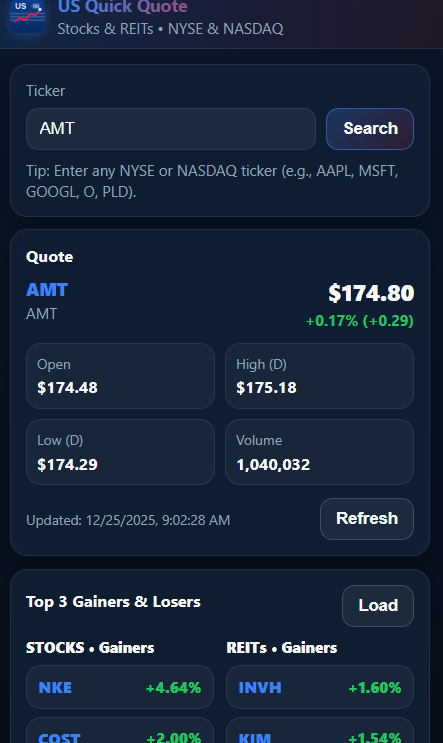
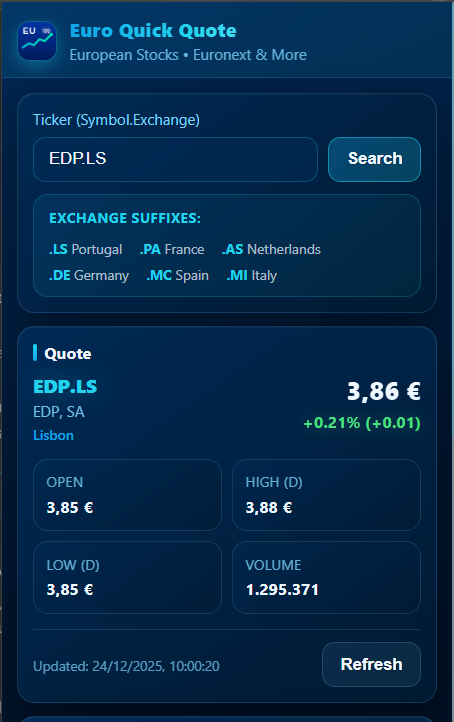
Improve color

diff --git a/popup.css b/popup.css
@@ -1,108 +1,171 @@
+/* Euro Quick Quote - European Theme */
 :root{
-  --bg:#0A1628;
-  --card:#0F1D32;
-  --muted:#94A3B8;
-  --text:#F8FAFC;
-  --line:rgba(255,255,255,.08);
-  --good:#22C55E;
-  --bad:#DC2626;
-  --neutral:#94A3B8;
-  --accent:#3B82F6;
-  --accent-red:#DC2626;
-  --accent-white:#F8FAFC;
+  /* Base colors - European Blue theme matching icon */
+  --bg:#001A33;
+  --card:#002244;
+  --muted:#7DD3FC;
+  --text:#F0F9FF;
+  --line:rgba(125,211,252,.15);
+  
+  /* Status colors */
+  --good:#4ADE80;
+  --bad:#F87171;
+  --neutral:#7DD3FC;
+  
+  /* Accent - Blue to Cyan gradient inspired by icon */
+  --accent:#22D3EE;
+  --accent-secondary:#0EA5E9;
+  --accent-glow:rgba(34,211,238,.3);
+  
+  /* EU Gold accent (optional highlights) */
+  --gold:#FFD700;
 }
 
 *{box-sizing:border-box}
 body{
   margin:0;
   width:360px;
-  background:linear-gradient(180deg, #0A1628 0%, #050B14 100%);
+  background:linear-gradient(160deg, #002855 0%, #001229 50%, #000A14 100%);
   color:var(--text);
   font: 13px/1.35 "Segoe UI", system-ui, -apple-system, Roboto, Arial, sans-serif;
 }
 
 .header{
-  padding:12px 12px 8px 12px;
+  padding:14px 12px 10px 12px;
   border-bottom:1px solid var(--line);
-  background: linear-gradient(90deg, rgba(59,130,246,0.15) 0%, rgba(220,38,38,0.1) 100%);
+  background: linear-gradient(135deg, rgba(14,165,233,0.12) 0%, rgba(34,211,238,0.08) 100%);
+  position:relative;
+}
+.header::before{
+  content:'';
+  position:absolute;
+  top:0;
+  left:0;
+  right:0;
+  height:2px;
+  background:linear-gradient(90deg, #0EA5E9 0%, #22D3EE 50%, #0EA5E9 100%);
 }
 
 .brand{display:flex; gap:10px; align-items:center;}
-.logo{width:28px; height:28px; border-radius:8px; box-shadow: 0 2px 8px rgba(59,130,246,0.3);}
-.brand-title{font-weight:700; font-size:14px; background: linear-gradient(90deg, var(--accent) 0%, var(--accent-red) 100%); -webkit-background-clip: text; -webkit-text-fill-color: transparent; background-clip: text;}
-.brand-subtitle{color:var(--muted); font-size:12px; margin-top:1px;}
+.logo{
+  width:32px; 
+  height:32px; 
+  border-radius:10px; 
+  box-shadow: 0 4px 12px var(--accent-glow);
+  border:1px solid rgba(34,211,238,.3);
+}
+.brand-title{
+  font-weight:800; 
+  font-size:15px; 
+  background: linear-gradient(90deg, #0EA5E9 0%, #22D3EE 50%, #67E8F9 100%); 
+  -webkit-background-clip: text; 
+  -webkit-text-fill-color: transparent; 
+  background-clip: text;
+  letter-spacing:0.3px;
+}
+.brand-subtitle{color:var(--muted); font-size:12px; margin-top:2px; opacity:0.8;}
 
 .main{padding:12px; display:flex; flex-direction:column; gap:10px;}
 .card{
-  background:rgba(15,29,50,.95);
+  background:linear-gradient(145deg, rgba(0,42,85,.95) 0%, rgba(0,26,51,.98) 100%);
   border:1px solid var(--line);
   border-radius:14px;
   padding:12px;
-  box-shadow: 0 10px 24px rgba(0,0,0,.25);
+  box-shadow: 0 8px 32px rgba(0,0,0,.4), inset 0 1px 0 rgba(125,211,252,.05);
 }
 
-.card-title{font-weight:700; margin-bottom:8px; color:var(--text);}
+.card-title{
+  font-weight:700; 
+  margin-bottom:8px; 
+  color:var(--text);
+  display:flex;
+  align-items:center;
+  gap:6px;
+}
+.card-title::before{
+  content:'';
+  width:3px;
+  height:14px;
+  background:linear-gradient(180deg, #22D3EE 0%, #0EA5E9 100%);
+  border-radius:2px;
+}
 
 .label{display:block; color:var(--muted); font-size:12px; margin-bottom:6px;}
 .row{display:flex; gap:8px; align-items:center;}
 .input{
   flex:1;
-  height:34px;
-  padding:0 10px;
+  height:36px;
+  padding:0 12px;
   border-radius:10px;
-  border:1px solid var(--line);
-  background:rgba(255,255,255,.06);
+  border:1px solid rgba(34,211,238,.25);
+  background:rgba(0,42,85,.6);
   color:var(--text);
   outline:none;
   text-transform: uppercase;
+  font-weight:500;
+  transition: all 0.2s ease;
 }
-.input::placeholder{text-transform: none;}
-.input:focus{border-color:rgba(59,130,246,.6); box-shadow:0 0 0 3px rgba(59,130,246,.15);}
+.input::placeholder{text-transform: none; color:rgba(125,211,252,.5);}
+.input:focus{
+  border-color:rgba(34,211,238,.7); 
+  box-shadow:0 0 0 3px rgba(34,211,238,.15);
+  background:rgba(0,42,85,.8);
+}
 .btn{
-  height:34px;
-  padding:0 12px;
+  height:36px;
+  padding:0 14px;
   border-radius:10px;
-  border:1px solid rgba(59,130,246,.55);
-  background: linear-gradient(135deg, rgba(59,130,246,.25) 0%, rgba(220,38,38,.15) 100%);
+  border:1px solid rgba(34,211,238,.5);
+  background: linear-gradient(135deg, rgba(14,165,233,.3) 0%, rgba(34,211,238,.2) 100%);
   color:var(--text);
   font-weight:600;
   cursor:pointer;
   transition: all 0.2s ease;
+  text-shadow: 0 1px 2px rgba(0,0,0,.3);
 }
-.btn:hover{background: linear-gradient(135deg, rgba(59,130,246,.35) 0%, rgba(220,38,38,.25) 100%);}
+.btn:hover{
+  background: linear-gradient(135deg, rgba(14,165,233,.45) 0%, rgba(34,211,238,.35) 100%);
+  border-color:rgba(34,211,238,.7);
+  box-shadow: 0 4px 12px rgba(34,211,238,.2);
+}
 .btn:active{transform:translateY(1px);}
 .btn-ghost{
-  border-color:rgba(255,255,255,.16);
-  background:rgba(255,255,255,.06);
+  border-color:rgba(125,211,252,.2);
+  background:rgba(125,211,252,.08);
 }
-.btn-ghost:hover{background:rgba(255,255,255,.1);}
+.btn-ghost:hover{
+  background:rgba(125,211,252,.15);
+  border-color:rgba(125,211,252,.35);
+}
 
-.hint{margin-top:8px; color:var(--muted); font-size:12px;}
+.hint{margin-top:8px; color:var(--muted); font-size:12px; opacity:0.8;}
 .state{color:var(--muted); font-size:12px; padding:8px 0;}
 .hidden{display:none;}
 
 /* Exchange help section */
 .exchange-help{
   margin-top:10px;
-  padding:8px 10px;
-  background:rgba(59,130,246,.08);
-  border:1px solid rgba(59,130,246,.2);
-  border-radius:10px;
+  padding:10px 12px;
+  background:linear-gradient(135deg, rgba(14,165,233,.1) 0%, rgba(34,211,238,.05) 100%);
+  border:1px solid rgba(34,211,238,.2);
+  border-radius:12px;
   display:flex;
   flex-wrap:wrap;
-  gap:6px 12px;
+  gap:6px 14px;
   align-items:center;
 }
 .help-title{
-  color:var(--muted);
+  color:var(--accent);
   font-size:11px;
-  font-weight:600;
+  font-weight:700;
   width:100%;
-  margin-bottom:2px;
+  margin-bottom:4px;
+  text-transform:uppercase;
+  letter-spacing:0.5px;
 }
 .help-item{
   font-size:11px;
-  color:var(--muted);
+  color:rgba(240,249,255,.7);
 }
 .help-item strong{
   color:var(--accent);
@@ -111,68 +174,138 @@ body{
 
 /* Exchange name in quote */
 .q-exchange{
-  color:var(--muted);
+  color:var(--accent-secondary);
   font-size:11px;
-  margin-top:2px;
-  opacity:0.8;
+  margin-top:3px;
+  font-weight:500;
 }
 
 .quote-top{display:flex; justify-content:space-between; align-items:flex-start; gap:10px;}
-.q-symbol{font-weight:800; font-size:14px; color:var(--accent);}
-.q-name{color:var(--muted); font-size:12px; margin-top:2px; max-width:190px; overflow:hidden; text-overflow:ellipsis; white-space:nowrap;}
+.q-symbol{
+  font-weight:800; 
+  font-size:15px; 
+  color:var(--accent);
+  text-shadow: 0 0 20px var(--accent-glow);
+}
+.q-name{
+  color:var(--muted); 
+  font-size:12px; 
+  margin-top:2px; 
+  max-width:180px; 
+  overflow:hidden; 
+  text-overflow:ellipsis; 
+  white-space:nowrap;
+  opacity:0.9;
+}
 .q-pricebox{text-align:right;}
-.q-price{font-weight:800; font-size:18px;}
-.q-change{margin-top:2px; font-weight:700; font-size:12px;}
-.q-change.good{color:var(--good);}
-.q-change.bad{color:var(--bad);}
+.q-price{
+  font-weight:800; 
+  font-size:20px;
+  background: linear-gradient(180deg, #FFFFFF 0%, #E0F2FE 100%);
+  -webkit-background-clip: text;
+  -webkit-text-fill-color: transparent;
+  background-clip: text;
+}
+.q-change{margin-top:3px; font-weight:700; font-size:13px;}
+.q-change.good{color:var(--good); text-shadow: 0 0 12px rgba(74,222,128,.3);}
+.q-change.bad{color:var(--bad); text-shadow: 0 0 12px rgba(248,113,113,.3);}
 .q-change.neutral{color:var(--neutral);}
 
 .quote-grid{
-  margin-top:10px;
+  margin-top:12px;
   display:grid;
   grid-template-columns:1fr 1fr;
   gap:8px;
 }
-.kv{padding:8px; border:1px solid var(--line); border-radius:12px; background:rgba(255,255,255,.04);}
-.k{color:var(--muted); font-size:11px;}
-.v{margin-top:3px; font-weight:700;}
+.kv{
+  padding:10px; 
+  border:1px solid var(--line); 
+  border-radius:12px; 
+  background:linear-gradient(145deg, rgba(0,42,85,.5) 0%, rgba(0,26,51,.6) 100%);
+}
+.k{color:var(--muted); font-size:11px; text-transform:uppercase; letter-spacing:0.3px; opacity:0.8;}
+.v{margin-top:4px; font-weight:700; font-size:13px;}
 
 .quote-footer{
-  margin-top:10px;
+  margin-top:12px;
   display:flex;
   align-items:center;
   justify-content:space-between;
+  padding-top:10px;
+  border-top:1px solid var(--line);
 }
-.q-time{color:var(--muted); font-size:11px;}
+.q-time{color:var(--muted); font-size:11px; opacity:0.7;}
 
 .tops-head{display:flex; justify-content:space-between; align-items:center; gap:10px;}
-.tops-grid{display:grid; grid-template-columns:1fr 1fr; gap:10px; margin-top:8px;}
-.tops-title{font-weight:800; font-size:12px; color:var(--text);}
-.tops-title-spaced{margin-top:10px;}
-.list{display:flex; flex-direction:column; gap:6px; margin-top:6px;}
-.item{
-  display:flex; justify-content:space-between; align-items:center;
-  padding:8px 9px;
+.tops-grid{display:grid; grid-template-columns:1fr 1fr; gap:12px; margin-top:10px;}
+.tops-col{
+  background:linear-gradient(145deg, rgba(0,42,85,.3) 0%, rgba(0,26,51,.4) 100%);
   border-radius:12px;
-  border:1px solid var(--line);
-  background:rgba(255,255,255,.04);
-  transition: background 0.15s ease;
+  padding:10px;
+  border:1px solid rgba(125,211,252,.08);
 }
-.item:hover{background:rgba(255,255,255,.08);}
-.sym{font-weight:800; color:var(--accent);}
+.tops-title{
+  font-weight:800; 
+  font-size:11px; 
+  color:var(--accent);
+  text-transform:uppercase;
+  letter-spacing:0.5px;
+}
+.tops-title-spaced{margin-top:12px;}
+.list{display:flex; flex-direction:column; gap:6px; margin-top:8px;}
+.item{
+  display:flex; 
+  justify-content:space-between; 
+  align-items:center;
+  padding:8px 10px;
+  border-radius:10px;
+  border:1px solid rgba(125,211,252,.1);
+  background:linear-gradient(135deg, rgba(14,165,233,.08) 0%, rgba(34,211,238,.04) 100%);
+  transition: all 0.2s ease;
+}
+.item:hover{
+  background:linear-gradient(135deg, rgba(14,165,233,.15) 0%, rgba(34,211,238,.1) 100%);
+  border-color:rgba(34,211,238,.25);
+  transform:translateX(2px);
+}
+.sym{
+  font-weight:800; 
+  color:var(--text);
+  font-size:12px;
+}
 .chg{font-weight:800; font-size:12px;}
 .chg.good{color:var(--good);}
 .chg.bad{color:var(--bad);}
-.mini-note{margin-top:10px; color:var(--muted); font-size:11px;}
+.mini-note{
+  margin-top:12px; 
+  color:var(--muted); 
+  font-size:10px;
+  opacity:0.6;
+  line-height:1.4;
+}
 
 .footer{
   display:flex;
   justify-content:center;
-  gap:8px;
+  gap:10px;
   color:var(--muted);
   font-size:11px;
-  padding:4px 0 0 0;
+  padding:6px 0 2px 0;
+  opacity:0.7;
 }
-.link{color:var(--muted); text-decoration:none; transition: color 0.15s ease;}
-.link:hover{color:var(--accent);}
-.dot{opacity:.6}
+.link{
+  color:var(--muted); 
+  text-decoration:none; 
+  transition: all 0.2s ease;
+}
+.link:hover{
+  color:var(--accent);
+  text-shadow: 0 0 8px var(--accent-glow);
+}
+.dot{opacity:.5}
+
+/* Scrollbar styling */
+::-webkit-scrollbar{width:6px}
+::-webkit-scrollbar-track{background:rgba(0,26,51,.5)}
+::-webkit-scrollbar-thumb{background:rgba(34,211,238,.3); border-radius:3px}
+::-webkit-scrollbar-thumb:hover{background:rgba(34,211,238,.5)}

diff --git a/popup.html b/popup.html
@@ -78,9 +78,9 @@
       <div id="topsBox" class="tops hidden">
         <div class="tops-grid">
           <div class="tops-col">
-            <div class="tops-title">STOCKS • Gainers</div>
+            <div class="tops-title">Stocks • Gainers</div>
             <div id="stocksGainers" class="list"></div>
-            <div class="tops-title tops-title-spaced">STOCKS • Losers</div>
+            <div class="tops-title tops-title-spaced">Stocks • Losers</div>
             <div id="stocksLosers" class="list"></div>
           </div>
 
